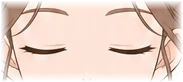
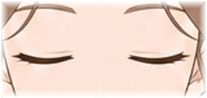
V2: use the larger 1333x2000 doll artwork
- pipeline now scales with image size; skin mask built from outline-bounded regions
  (includes light skin highlights, excludes clothes/hair/eyes); tighter blink patch
- doll metadata written to v2/src/doll.json and imported by the app

Changed region(s): [[0.5738, 0.0244, 1.0, 0.9756], [0.0, 0.0244, 0.3825, 0.9756]]

diff --git a/v2/src/App.jsx b/v2/src/App.jsx
@@ -1,13 +1,14 @@
 import { useCallback, useEffect, useRef, useState } from 'react';
 import { SHADES } from './shades.js';
+import dollMeta from './doll.json';   // written by tools/prep_doll.py
 
 // ---- artwork (made by tools/prep_doll.py) ----
 const DOLL = '/doll/doll.webp';
 const EYES_CLOSED = '/doll/eyes-closed.webp';      // only the eyes; swapped in for a blink
 const SKIN_MASK = '/doll/skin-mask.png';
-const EYES = { x: 41.4062, y: 10.4167, w: 17.8711, h: 5.3385 }; // % of the doll (from doll.json)
+const EYES = dollMeta.eyes;                         // eye patch position, % of the doll
 
-// ---- makeup canvases: 2x the 1024x1536 doll so zoomed-in strokes stay sharp ----
+// ---- makeup canvases: about 1.5x the doll's pixels (capped for phone memory) ----
 const CANVAS_W = 2048;
 const CANVAS_H = 3072;
 const BRUSH_RADIUS = 34;        // canvas px

diff --git a/v2/src/styles.css b/v2/src/styles.css
@@ -36,7 +36,7 @@ img { -webkit-user-drag: none; user-select: none; }
   position: absolute;
   bottom: 4%;
   height: 66%;
-  aspect-ratio: 1024 / 1536;
+  aspect-ratio: 1333 / 2000;
   transform: translateX(-50%);
   pointer-events: none;
   user-select: none;

diff --git a/tools/prep_doll.py b/tools/prep_doll.py
@@ -6,7 +6,7 @@ Output (v2/public/doll/):
   doll.webp         the open-eyes doll, background removed (lossless RGBA, original pixel size)
   eyes-closed.webp  ONLY the closed-eyes patch (feathered), so a blink swaps just the eyes
   skin-mask.png     alpha mask of bare skin (face, eyelids, ears, neck, arms, legs) for makeup
-  doll.json         patch position/size (as % of the doll) and image size
+  (also v2/src/doll.json: image size and the eye-patch position, as % of the doll)
 
 Run:  python tools/prep_doll.py
 """
@@ -23,6 +23,8 @@ os.makedirs(OUT, exist_ok=True)
 open_rgb = np.array(Image.open(os.path.join(SRC, "doll-eyes-open.webp")).convert("RGB")).astype(np.float32)
 closed_rgb = np.array(Image.open(os.path.join(SRC, "doll-eyes-closed.webp")).convert("RGB")).astype(np.float32)
 H, W, _ = open_rgb.shape
+S = W / 1024.0            # the pixel boxes below were measured on a 1024-wide doll; scale them
+def sc(*v): return tuple(int(round(x * S)) for x in v)
 print("doll size", W, "x", H)
 
 # ---------- 1. background removal (flood fill from the border, then clean the anti-aliased edge)
@@ -35,8 +37,8 @@ def cutout(rgb):
     sizes = np.bincount(lab.ravel())
     cents = ndi.center_of_mass(near_white, lab, range(1, len(sizes)))
     def in_eyes(c):                      # the whites of the eyes must stay opaque
-        return 170 <= c[0] <= 240 and 430 <= c[1] <= 600
-    pockets = {i for i in range(1, len(sizes)) if sizes[i] >= 60 and not in_eyes(cents[i - 1])}
+        return 170 * S <= c[0] <= 240 * S and 430 * S <= c[1] <= 600 * S
+    pockets = {i for i in range(1, len(sizes)) if sizes[i] >= 60 * S * S and not in_eyes(cents[i - 1])}
     bg = np.isin(lab, list(border | pockets))
     # edge band: pixels touching the background that are not background themselves
     band = ndi.binary_dilation(bg, iterations=2) & ~bg
@@ -60,7 +62,7 @@ Image.fromarray(rgba, "RGBA").save(os.path.join(OUT, "doll.webp"), lossless=True
 print("doll.webp saved; background fraction", round(float(bg.mean()), 3))
 
 # ---------- 2. align the closed-eyes image to the open one, using the lower face (no eyes there)
-def best_offset(ref, mov, box, search=6):
+def best_offset(ref, mov, box, search=8):
     x0, y0, x1, y1 = box
     base = ref[y0:y1, x0:x1]
     best = (1e9, 0, 0)
@@ -72,7 +74,7 @@ def best_offset(ref, mov, box, search=6):
                 best = (e, dx, dy)
     return best
 
-FACE_LOW = (430, 250, 600, 330)       # nose / mouth / chin
+FACE_LOW = sc(430, 250, 600, 330)       # nose / mouth / chin
 err, dx, dy = best_offset(open_rgb, closed_rgb, FACE_LOW)
 print(f"closed-eyes offset dx={dx} dy={dy} (error {err:.2f})")
 aligned = np.roll(np.roll(closed_rgb, -dy, axis=0), -dx, axis=1)
@@ -80,38 +82,41 @@ aligned = np.roll(np.roll(closed_rgb, -dy, axis=0), -dx, axis=1)
 # ---------- 3. find the region that really differs (the eyes) and make a feathered patch
 # Only the eyes truly differ; hair/jaw outlines differ by hairline shifts, so keep the patch to the eyes.
 diff = np.abs(open_rgb - aligned).sum(axis=2)
-EYE_SEARCH = np.zeros_like(diff, bool); EYE_SEARCH[172:238, 436:596] = True
+EYE_SEARCH = np.zeros_like(diff, bool); ya, yb, xa, xb = sc(176, 232, 444, 584)
+EYE_SEARCH[ya:yb, xa:xb] = True
 sig = (diff > 200) & EYE_SEARCH
 ys, xs = np.where(sig)
 print("eye difference bbox: x", xs.min(), xs.max(), " y", ys.min(), ys.max())
-PAD = 12
+PAD = int(round(10 * S))
 x0, x1 = max(xs.min() - PAD, 0), min(xs.max() + PAD, W)
 y0, y1 = max(ys.min() - PAD, 0), min(ys.max() + PAD, H)
 pw, ph = x1 - x0, y1 - y0
 yy, xx = np.mgrid[0:ph, 0:pw]
 # rounded-rectangle falloff, so the patch melts into the open-eyes face
 edge = np.minimum.reduce([xx, pw - 1 - xx, yy, ph - 1 - yy]).astype(np.float32)
-feather = np.clip(edge / 9.0, 0, 1)
+feather = np.clip(edge / (6.0 * S), 0, 1)
 patch = aligned[y0:y1, x0:x1]
 patch_rgba = np.dstack([patch, feather * 255]).round().clip(0, 255).astype(np.uint8)
 Image.fromarray(patch_rgba, "RGBA").save(os.path.join(OUT, "eyes-closed.webp"), lossless=True, method=6)
 print("patch", pw, "x", ph, "at", x0, y0)
 
 # ---------- 4. skin mask (makeup may only land on bare skin)
+# The doll's outlines split her into regions (face, neck, arms, legs, clothes, eyes...). A region
+# is skin when most of its pixels are skin-coloured; then the WHOLE region counts, so light
+# highlights on the skin are included but cream clothes, hair and the eyes are not.
 def skin(rgb):
     r, g, b = rgb[..., 0], rgb[..., 1], rgb[..., 2]
-    return (r >= 232) & (g >= 212) & ((r - b) >= 24) & ((r - b) <= 75) & ((g - b) >= 6)
+    return (r >= 232) & (g >= 195) & ((r - b) >= 20) & ((r - b) <= 90) & ((g - b) >= 5)
 
-# The mask follows the OPEN-eyes doll: eyeballs, brows, lips, hair, clothes and background are
-# excluded. (The lids are the skin above the eyes in that image.)
-mask = skin(open_rgb) & (doll_alpha > 0.5)
-mask = ndi.binary_closing(mask, structure=np.ones((3, 3)), iterations=2)   # close hairline gaps
-# fill only TINY pinholes (image noise), never real features like the eyes
-holes, n = ndi.label(~mask)
-hs = np.bincount(holes.ravel())
-tiny = np.isin(holes, [i for i in range(1, len(hs)) if hs[i] < 40])
-mask = (mask | tiny) & (doll_alpha > 0.3)
-mask_f = ndi.gaussian_filter(mask.astype(np.float32), 0.9)
+barrier = (open_rgb[..., 0] < 236) | (open_rgb[..., 1] < 190) | (doll_alpha < 0.5)   # outlines, hair, eyes
+lab, n = ndi.label(~barrier)
+sizes = np.bincount(lab.ravel(), minlength=n + 1).astype(np.float64)
+sk_count = np.bincount(lab.ravel(), weights=skin(open_rgb).ravel().astype(np.float64), minlength=n + 1)
+frac = sk_count / np.maximum(sizes, 1)
+keep = [i for i in range(1, n + 1) if sizes[i] >= 150 * S * S and frac[i] >= 0.35]
+mask = np.isin(lab, keep)
+mask = ndi.binary_dilation(mask, iterations=max(1, int(round(2 * S)))) & (doll_alpha > 0.3)   # reach the outline
+mask_f = ndi.gaussian_filter(mask.astype(np.float32), 0.9 * S)
 mrgba = np.zeros((H, W, 4), np.uint8); mrgba[..., 3] = (mask_f * 255).round().astype(np.uint8)
 Image.fromarray(mrgba, "RGBA").save(os.path.join(OUT, "skin-mask.png"), optimize=True)
 print("skin mask coverage", round(float(mask.mean()), 3))
@@ -119,5 +124,5 @@ print("skin mask coverage", round(float(mask.mean()), 3))
 json.dump({"width": int(W), "height": int(H),
            "eyes": {"x": round(x0 / W * 100, 4), "y": round(y0 / H * 100, 4),
                     "w": round(pw / W * 100, 4), "h": round(ph / H * 100, 4)}},
-          open(os.path.join(OUT, "doll.json"), "w"), indent=1)
+          open(os.path.join(ROOT, "v2", "src", "doll.json"), "w"), indent=1)
 print("done")
